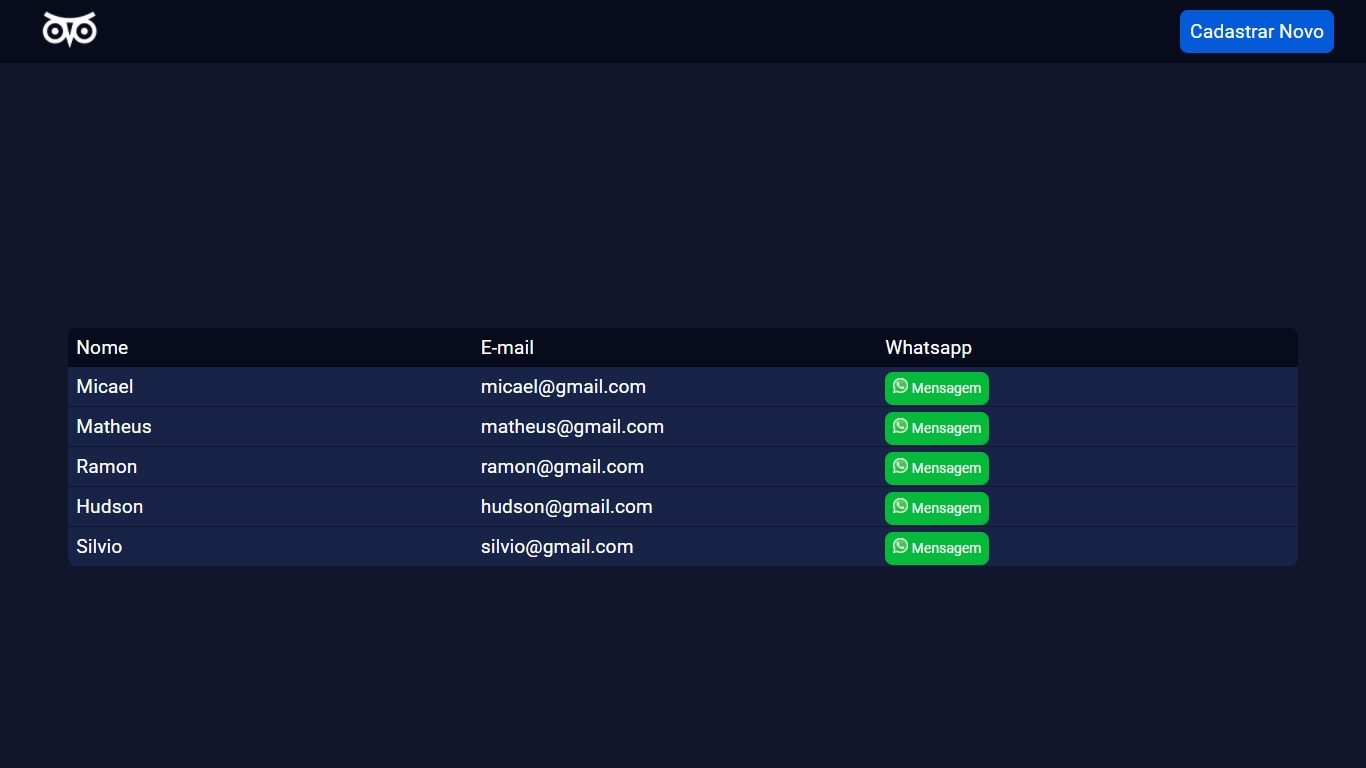
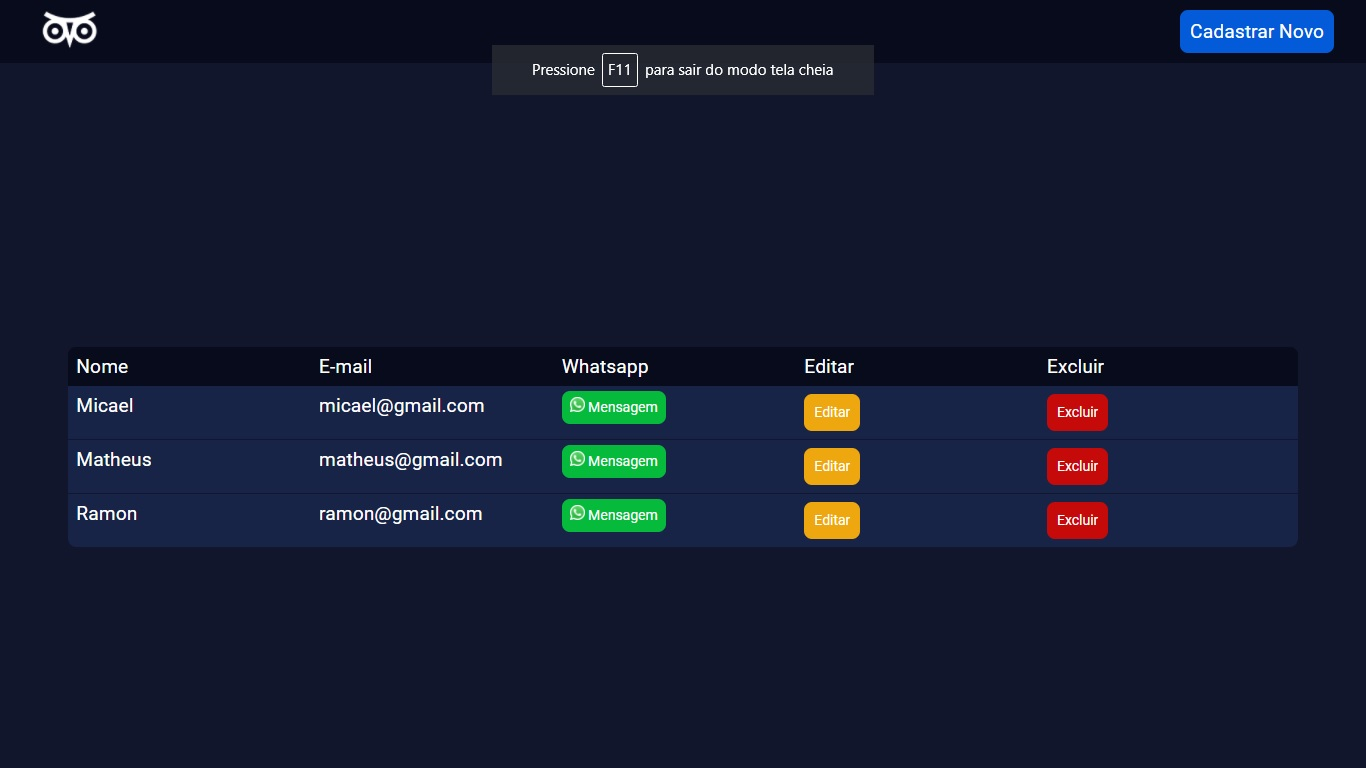
refactoring-crud

Changed region(s): [[0.0307, 0.4375, 0.9531, 0.75], [0.3382, 0.0312, 0.6457, 0.0938], [0.0615, 0.5938, 0.123, 0.625]]

diff --git a/frontend/src/crud.js b/frontend/src/crud.js
@@ -1,0 +1,161 @@
+const baseURL = 'http://localhost:3001/alunos'
+
+const tabela = document.querySelector('.table')
+const formulario = document.registerForm
+const botaoCancelar = document.querySelector('.btn-secondary')
+
+
+const initialState = {
+    aluno: {
+        nome: '',
+        email: '',
+        whatsapp: ''
+    },
+    list: []
+}
+
+var state = { ...initialState }
+
+
+//Listar GET
+function mostrarRegistros() {
+    fetch(baseURL).then(resp => resp.json())
+        .then(alunos => {
+            state.list = [...alunos]
+            console.log(state)
+            const linhas = alunos.reduce(
+                (html, aluno) => html + `
+                <div class='row' id=${aluno.id}>
+                    <div class='col'>${aluno.nome}</div>
+                    <div class='col'>${aluno.email}</div>
+                    <div class='col'>
+                            <a
+                            class='btn-whatsapp'
+                            href='https://api.whatsapp.com/send?phone=${aluno.whatsapp}&text=Olá, ${aluno.nome}'
+                            target='_blank'>
+                            <img src='./assets//images/whatsapp-logo-1.png' >    
+                            Mensagem
+                            </a>
+                    </div>
+                    <div class="col">
+                            <button class="btn-edit" onClick=atualizarCampos(${aluno.id})>Editar</button>
+                    </div>
+                    <div class="col">
+                        <button class="btn-delete" onClick=deletar(${aluno.id})>Excluir</button>
+                    </div>
+                </div>`, ''
+            )
+            tabela.insertAdjacentHTML('beforeend', linhas)
+        })
+        .catch((e) => tabela.innerHTML = "<div class='row'><div class='col'>Carregando...</div></div>")
+}
+
+mostrarRegistros()
+
+
+function atualizarEstado() {
+    if (formulario.ident.value != '') state.aluno.id = formulario.ident.value
+    state.aluno.nome = formulario.nome.value
+    state.aluno.email = formulario.email.value
+    state.aluno.whatsapp = formulario.whatsapp.value
+}
+
+function atualizarCampos(id) {
+    fetch(`${baseURL}/${id}`)
+        .then(resp => resp.json())
+        .then(aluno => {
+            console.log(aluno)
+            formulario.ident.value = aluno.id
+            formulario.nome.value = aluno.nome
+            formulario.email.value = aluno.email
+            formulario.whatsapp.value = aluno.whatsapp
+        })
+    document.getElementById('botaoCadastrar').click()
+}
+
+//Salvar POST e PUT
+document.registerForm.onsubmit = async function (evento) {
+    evento.preventDefault()
+    atualizarEstado()
+    console.log(state)
+    const aluno = state.aluno
+    const method = aluno.id ? 'put' : 'post'
+    console.log(method)
+    const url = aluno.id ? `${baseURL}/${aluno.id}` : baseURL
+    console.log(new URLSearchParams(aluno))
+    fetch(url, {
+        method,
+        body: new URLSearchParams(aluno)
+    })
+        .then((resp) => resp.json())
+        .then(alunoResp => {
+            if (method == 'post') {
+                tabela.insertAdjacentHTML('beforeend', `
+                <div class='row highlight' id=${alunoResp.id}>
+                    <div class='col' id='nome'>${alunoResp.nome}</div>
+                    <div class='col' id='email'>${alunoResp.email}</div>
+                    <div class='col' id='whatsapp'>
+                            <a
+                            class='btn-whatsapp'
+                            href='https://api.whatsapp.com/send?phone=${alunoResp.whatsapp}&text=Olá, ${alunoResp.nome}'
+                            target='_blank'>
+                            <img src='./assets/images/whatsapp-logo-1.png' >
+                            Mensagem
+                            </a>
+                    </div>
+                    <div class="col">
+                            <button class="btn-edit" onClick=atualizarCampos(${alunoResp.id})>Editar</button>
+                    </div>
+                    <div class="col">
+                        <button class="btn-delete" onClick=deletar(${alunoResp.id})>Excluir</button>
+                    </div>
+                </div>`)
+
+            } else {
+                document.getElementById(alunoResp.id).classList.add('highlight')
+                document.getElementById(alunoResp.id).innerHTML = `
+                <div class='col'>${alunoResp.nome}</div>
+                <div class='col'>${alunoResp.email}</div>
+                <div class='col'>
+                        <a
+                        class='btn-whatsapp'
+                        href='https://api.whatsapp.com/send?phone=${alunoResp.whatsapp}&text=Olá, ${alunoResp.nome}'
+                        target='_blank'>
+                        <img src='./assets/images/whatsapp-logo-1.png' >
+                        Mensagem
+                        </a>
+                </div>
+                <div class="col">
+                        <button class="btn-edit" onClick=atualizarCampos(${alunoResp.id})>Editar</button>
+                </div>
+                <div class="col">
+                        <button class="btn-delete" onClick=deletar(${alunoResp.id})>Excluir</button>
+                </div>
+                `
+            }
+            botaoCancelar.click()
+            setTimeout(() => {
+                document.querySelector('.highlight').classList.remove('highlight')
+            }, 1000)
+        })
+        .catch((e) => tabela.innerHTML = `<div class='row'><div class='col'>${e}</div></div>`)
+}
+
+//Evento de Cancelar
+botaoCancelar.addEventListener('click', () => {
+    formulario.ident.value = ''
+    formulario.nome.value = ''
+    formulario.email.value = ''
+    formulario.whatsapp.value = ''
+})
+
+// Função de Deletar
+function deletar(id) {
+    fetch(`${baseURL}/${id}`, {
+        method: 'delete'
+    })
+    document.getElementById(id).classList.add('none')
+}
+
+
+

diff --git a/frontend/src/index.html b/frontend/src/index.html
@@ -20,22 +20,25 @@
                 <div class="col">Nome</div>
                 <div class="col"> E-mail</div>
                 <div class="col"> Whatsapp</div>
+                <div class="col"> Editar</div>
+                <div class="col"> Excluir</div>
             </div>
         </div>
     </div>
     <div class="container" id="register">
-        <form name="registerForm" method="post" action="http://localhost:3001/alunos">
+        <form name="registerForm">
             <h1>Cadastro</h1>
-            <input name="nome" type="text" placeholder="Nome">
-            <input name="email" type="text" placeholder="E-mail">
-            <input name="whatsapp" type="text" placeholder="Whatsapp">
+            <input  name="ident" style="display:none;" type="text" placeholder="id">
+            <input required name="nome" type="text" placeholder="Nome">
+            <input required name="email" type="text" placeholder="E-mail">
+            <input required name="whatsapp" type="text" placeholder="DDD111111111">
             <div class="button-group">
                 <button class="btn-primary">Salvar</button>
                 <a href="#" class="btn-secondary">Cancelar</a>
             </div>
         </form>
     </div>
-    <script src="events.js"></script>
+    <script src="crud.js"></script>
 </body>
 
 </html>

diff --git a/frontend/src/style.css b/frontend/src/style.css
@@ -114,7 +114,7 @@ header{
 
 .row{
     display: grid;
-    grid-template-columns: 1fr 1fr 1fr;
+    grid-template-columns: 1fr 1fr 1fr 1fr 1fr;
     padding: 8px;
     border-bottom: 1px solid var(--bg-secondary);
     transition: .4s;
@@ -130,7 +130,7 @@ header{
 }
 .row-head{
     display: grid;
-    grid-template-columns: 1fr 1fr 1fr;
+    grid-template-columns: 1fr 1fr 1fr 1fr 1fr;
     padding: 8px;
     border-top-left-radius: 8px;
     border-top-right-radius: 8px;
@@ -163,4 +163,42 @@ h1{
 
 .logo{
     height: 40px;
+}
+
+.none{
+    display: none;
+}
+
+.btn-delete{
+    background-color: rgb(197, 10, 10);
+    padding: 10px;
+    font-size: 14px;
+    border-radius: 8px;
+    color: #fff;
+    text-decoration: none;
+    border: none;
+    outline: none;
+    cursor: pointer;
+    transition: .5s;
+}
+
+.btn-delete:hover{
+    background-color: rgba(197, 10, 10,0.7);
+}
+
+.btn-edit{
+    background-color: rgb(238, 167, 15);
+    padding: 10px;
+    font-size: 14px;
+    border-radius: 8px;
+    color: #fff;
+    text-decoration: none;
+    border: none;
+    outline: none;
+    cursor: pointer;
+    transition: .5s;
+}
+
+.btn-edit:hover{
+    background-color: rgba(238, 167, 15, 0.7);
 }
